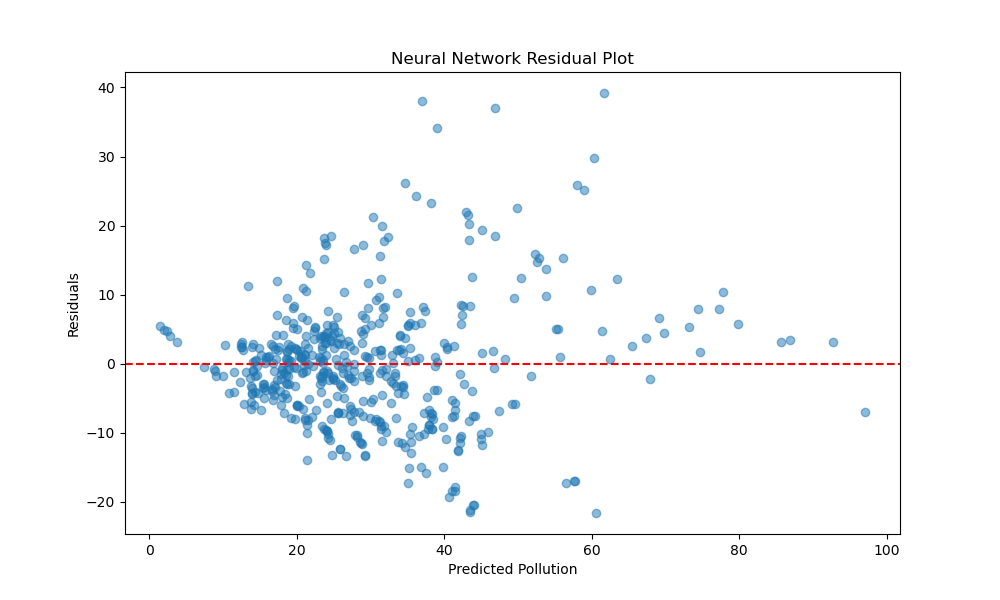
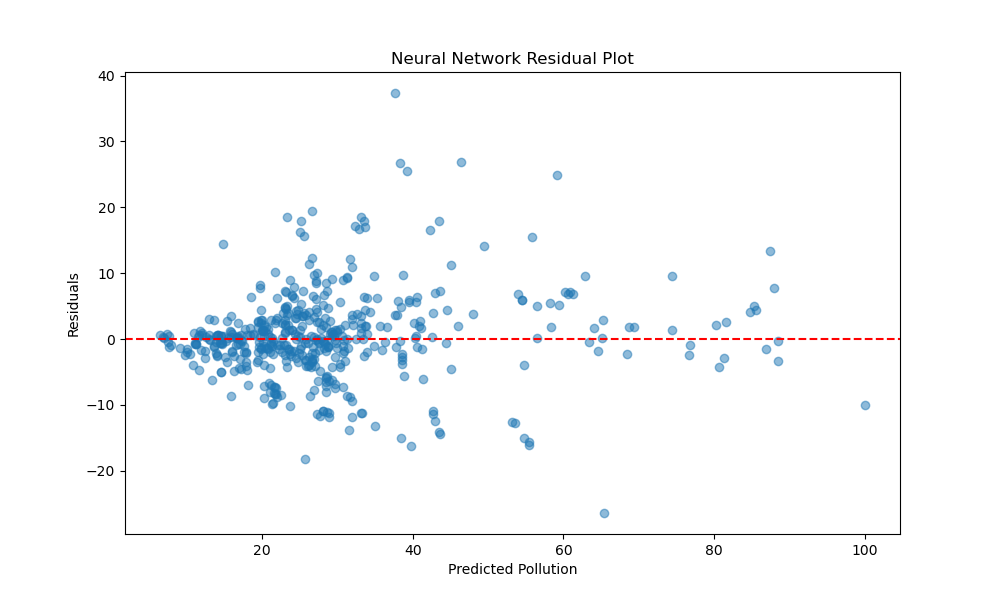
Minor changes to all models, added R2 score.

diff --git a/linear_regression_model.py b/linear_regression_model.py
@@ -5,6 +5,7 @@ from sklearn.linear_model import LinearRegression
 from sklearn.metrics import mean_squared_error, mean_absolute_error
 import matplotlib.pyplot as plt
 from process_data import get_processed_data
+from sklearn.metrics import r2_score
 
 
 def linear_regression_model(df, draw_plot=False):
@@ -23,9 +24,8 @@ def linear_regression_model(df, draw_plot=False):
     print("Linear Regression - Mean Absolute Error:", mae)
     mse = mean_squared_error(y_test, y_pred)
     print("Linear Regression - Mean Squared Error:", mse)
-
-    print("Coefficients:", model.coef_)
-    print("Intercept:", model.intercept_)
+    r2 = r2_score(y_test, y_pred)
+    print("Linear Regression - R2 Score:", r2)
 
     residuals = y_test - y_pred
 

diff --git a/random_forest_model.py b/random_forest_model.py
@@ -5,6 +5,7 @@ from sklearn.metrics import mean_squared_error, mean_absolute_error
 import matplotlib.pyplot as plt
 from process_data import get_processed_data
 from grid_search import best_parameters
+from sklearn.metrics import r2_score
 
 
 def random_forest_model(df, draw_plot=False):
@@ -33,6 +34,8 @@ def random_forest_model(df, draw_plot=False):
     print("Random Forest - Mean Absolute Error:", mae)
     mse = mean_squared_error(y_test, y_pred)
     print("Random Forest - Mean Squared Error:", mse)
+    r2 = r2_score(y_test, y_pred)
+    print("Random Forest - R2 Score:", r2)
 
     # Calculating residuals
     residuals = y_test - y_pred

diff --git a/simple_neural_network_model.py b/simple_neural_network_model.py
@@ -9,6 +9,7 @@ from tensorflow.keras.models import Sequential
 from tensorflow.keras.layers import Dense
 from process_data import get_processed_data
 from grid_search import best_parameters
+from sklearn.metrics import r2_score
 
 
 def create_model(activation_func='relu'):
@@ -49,6 +50,8 @@ def neural_network_model(df, draw_plot=False):
     print("Neural Network - Mean Absolute Error:", mae)
     mse = mean_squared_error(y_test, y_pred)
     print("Neural Network - Mean Squared Error:", mse)
+    r2 = r2_score(y_test, y_pred)
+    print("Neural Network - R2 Score:", r2)
 
     residuals = y_test - y_pred.flatten()
 

diff --git a/main.py b/main.py
@@ -11,6 +11,6 @@ import draw_functions as fmddf
 
 if __name__ == "__main__":
     data_df = get_processed_data()[1]
-    neural_network_model(data_df)
-    linear_regression_model(data_df)
-    random_forest_model(data_df)
+    neural_network_model(data_df, True)
+    linear_regression_model(data_df, True)
+    random_forest_model(data_df, True)
